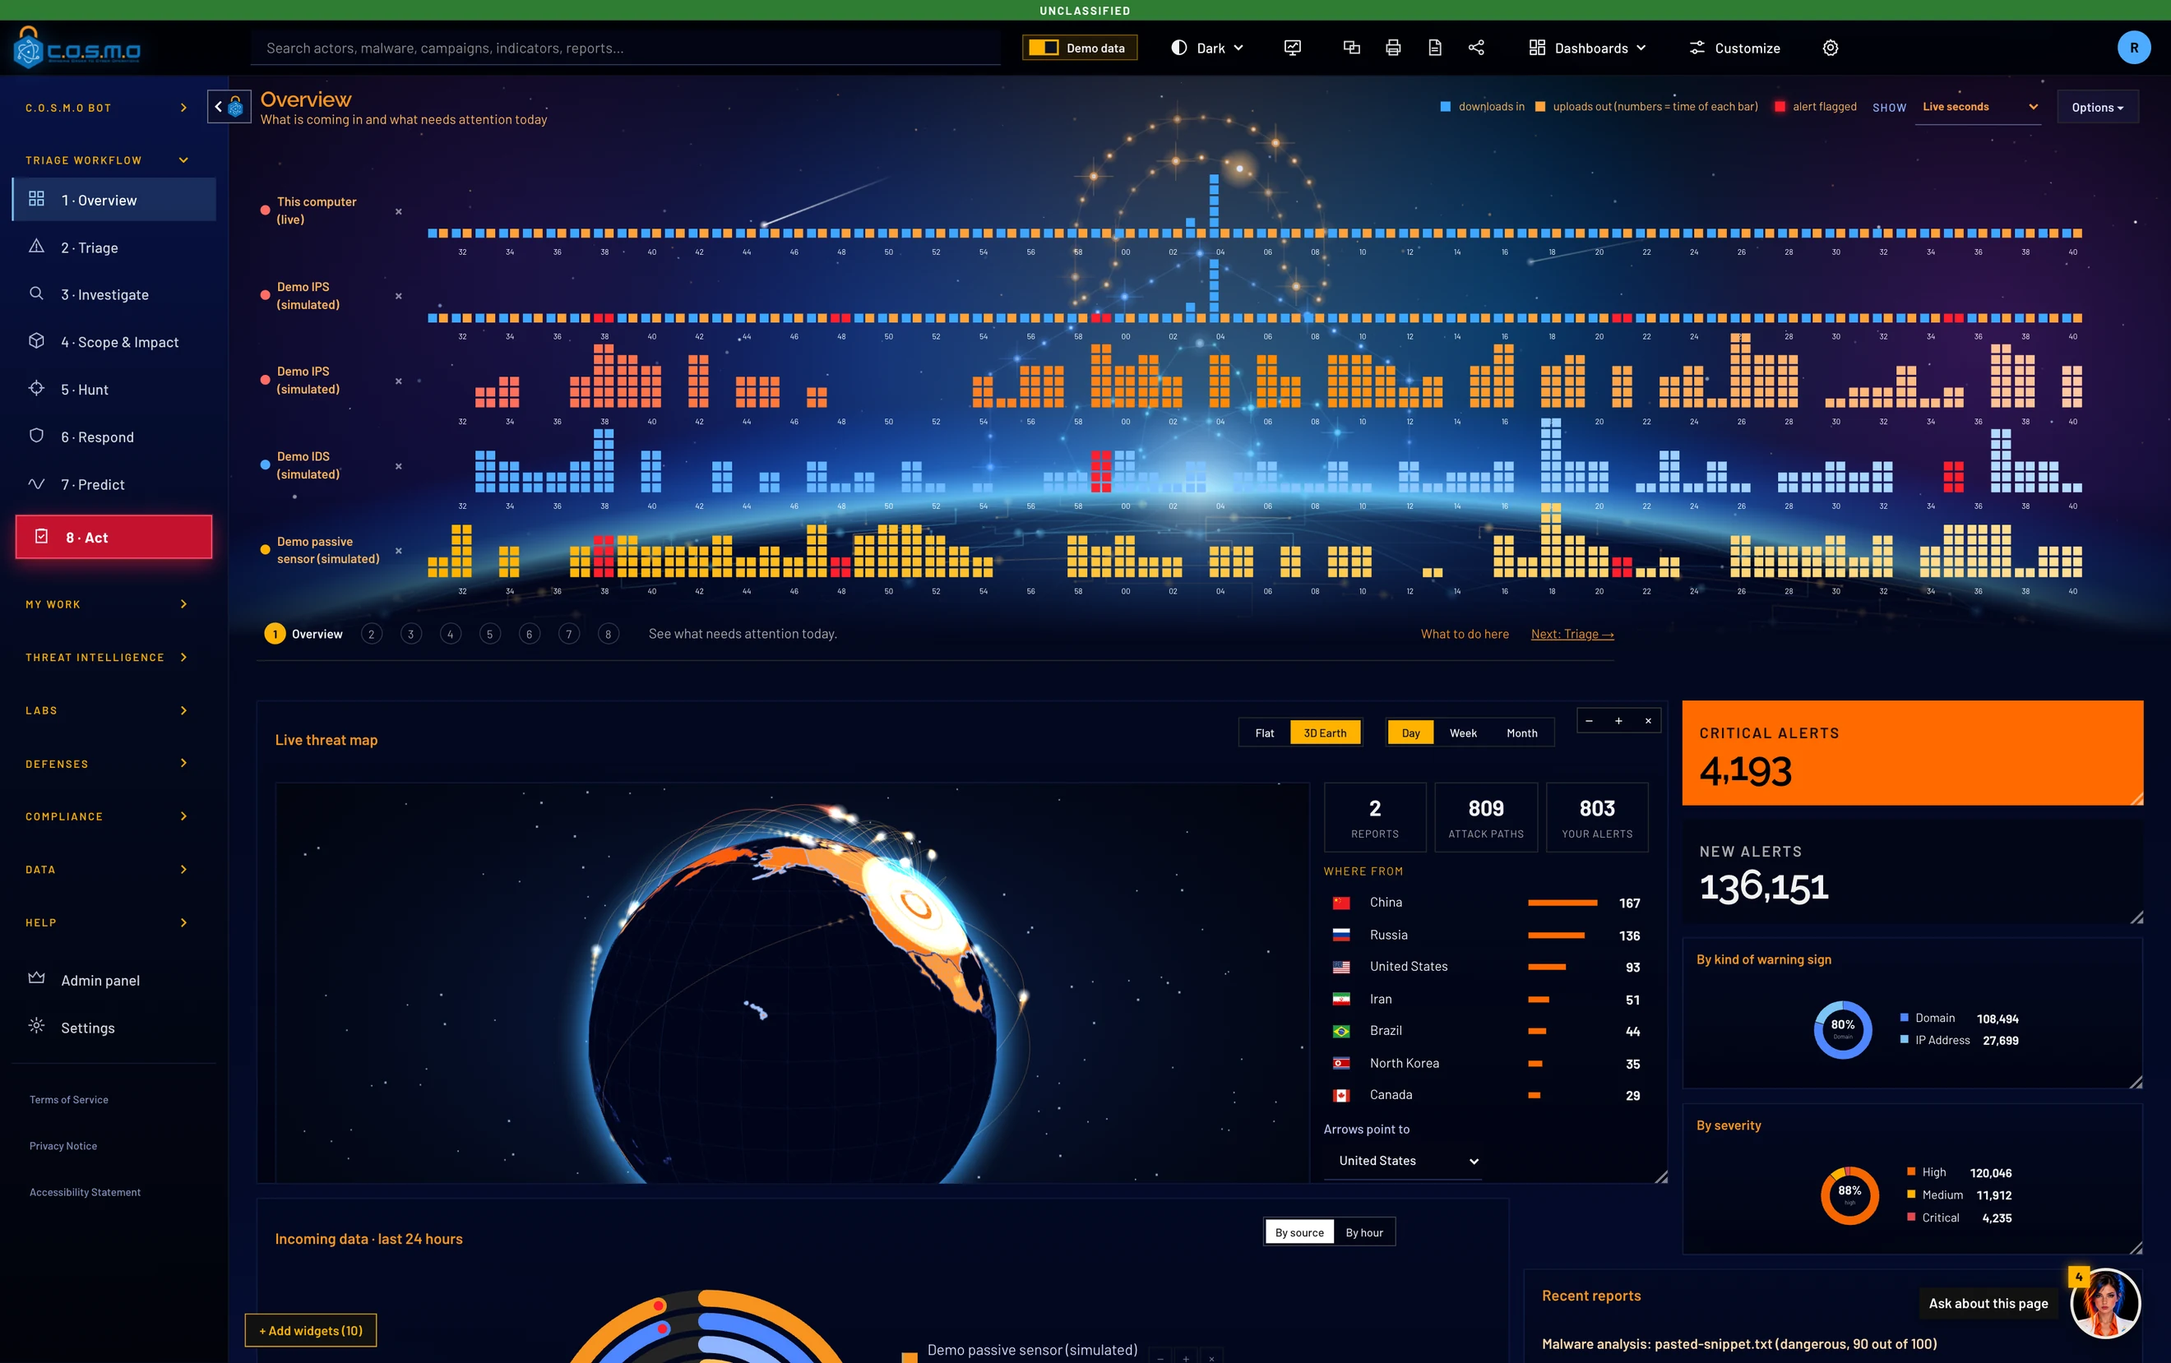
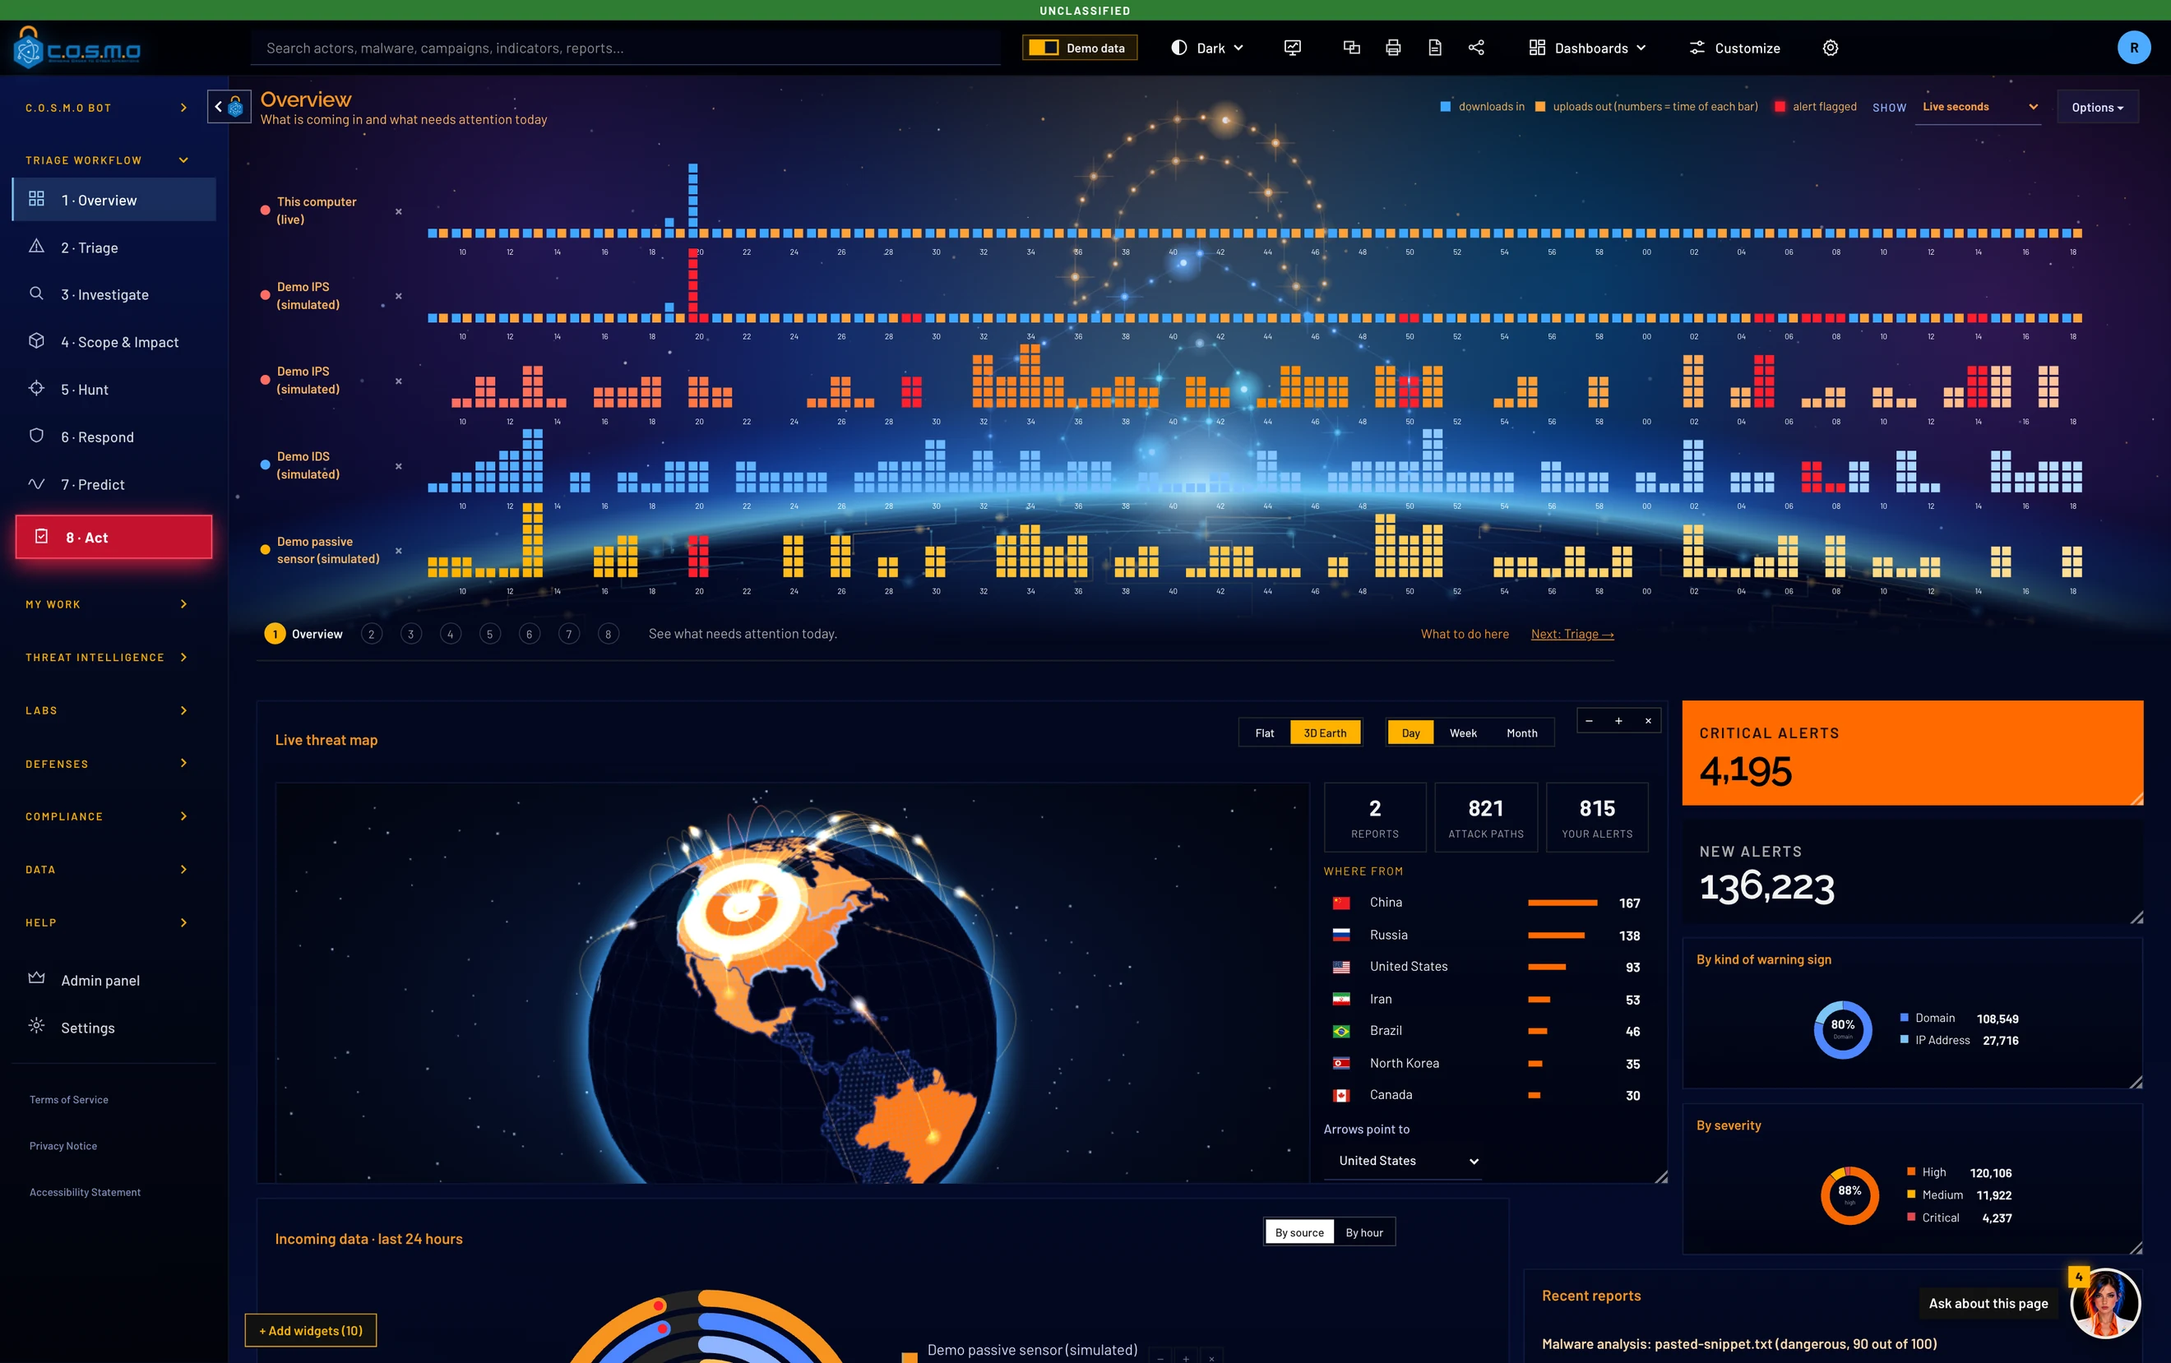
Overview screen pinned while you scroll: four statements swap around it, the spiral galaxy turns behind it, globe turned to the United States

diff --git a/index.html b/index.html
@@ -11,7 +11,7 @@
 <meta name="theme-color" content="#04071a">
 <link rel="icon" href="assets/img/favicon.svg" type="image/svg+xml">
 <link rel="icon" href="assets/img/favicon.png" type="image/png">
-<link rel="stylesheet" href="css/site.css?v=20261103q">
+<link rel="stylesheet" href="css/site.css?v=20261103t">
 <script>document.documentElement.classList.add('js')</script>
 </head>
 <body>
@@ -43,10 +43,6 @@
       <p class="lead">C.O.S.M.O triages, investigates, hunts, responds and predicts. One platform, with AI at every step and nothing leaving your network. Your analysts stay in control: nothing changes until a person approves.</p>
       <div class="actions"><a class="btn btn-primary" href="#contact">Request a demo <svg viewBox="0 0 24 24" aria-hidden="true"><use href="#i-arrow"/></svg></a><a class="btn btn-outline" href="#bot">Watch the bot work <svg viewBox="0 0 24 24" aria-hidden="true"><use href="#i-play"/></svg></a></div>
     </div>
-    <div class="hero-stage" data-reveal>
-      <div class="galaxy" aria-hidden="true"><img src="assets/img/galaxy.svg?v=20261103q" alt="" width="1200" height="1200"></div>
-      <figure class="hero-shot"><img src="assets/img/mock/cosmo-overview-live.webp?v=20261103q" width="2640" height="1657" alt="The C.O.S.M.O Overview: live traffic bars for every source arcing over a glowing 3D Earth, the live threat map with attack paths, and critical-alert counts down the side."></figure>
-    </div>
   </div>
   <div class="trust">
     <div class="wrap">
@@ -57,6 +53,21 @@
         <li><svg viewBox="0 0 24 24" aria-hidden="true"><use href="#i-unplug"/></svg>Works offline</li>
         <li><svg viewBox="0 0 24 24" aria-hidden="true"><use href="#i-cart"/></svg>Buy direct from Cypher</li>
       </ul>
+    </div>
+  </div>
+</section>
+
+<section class="spin" data-tab="home" id="overview" aria-label="The C.O.S.M.O Overview">
+  <div class="spin-track">
+    <div class="spin-stage">
+      <div class="galaxy" aria-hidden="true"><img src="assets/img/galaxy.svg?v=20261103t" alt="" width="1200" height="1200"></div>
+      <figure class="spin-screen"><img src="assets/img/mock/cosmo-overview-live.webp?v=20261103t" width="2640" height="1658" alt=""></figure>
+      <div class="spin-texts">
+        <article class="ostep on"><span class="mno">01</span><h3>Every source on one screen.</h3><p>Live traffic from your firewalls, sensors and servers, arcing over the Earth so you see what is coming in right now.</p></article>
+        <article class="ostep"><span class="mno">02</span><h3>See where it comes from.</h3><p>The 3D Earth draws every attack path from the country it started in to the machines it is aimed at, with the United States and your own network marked.</p></article>
+        <article class="ostep"><span class="mno">03</span><h3>The numbers that need you.</h3><p>Critical alerts, new alerts and the warning signs behind them, counted live and ranked so the urgent ones come first.</p></article>
+        <article class="ostep"><span class="mno">04</span><h3>Nothing changes until you approve.</h3><p>C.O.S.M.O drafts the decisions and the work orders. A person reads them and presses Approve.</p></article>
+      </div>
     </div>
   </div>
 </section>
@@ -101,7 +112,7 @@
     <div class="chatx">
       <figure class="chatx-shot botduo" data-reveal>
         <img class="bigava" src="assets/img/cosmo-bot-large.jpg" width="320" height="320" alt="C.O.S.M.O Bot" loading="lazy">
-        <img class="botwin" src="assets/img/views/bot-window.webp?v=20261103q" width="860" height="1592" alt="The C.O.S.M.O Bot window: 5 things that need a person, each with a button that takes you to the work, and a box to ask in plain language." loading="lazy">
+        <img class="botwin" src="assets/img/views/bot-window.webp?v=20261103t" width="860" height="1592" alt="The C.O.S.M.O Bot window: 5 things that need a person, each with a button that takes you to the work, and a box to ask in plain language." loading="lazy">
       </figure>
       <div class="chatx-copy" data-reveal>
         <ul class="cap-list tight">
@@ -123,7 +134,7 @@
     </div>
     <div class="chatbig" data-reveal>
       <figure class="chatbig-shot">
-        <img src="assets/img/views/bot-chat-large.webp?v=20261103q" width="1800" height="1212" alt="The full-size C.O.S.M.O Bot chat page: a large conversation area with a box at the bottom for questions, buttons to attach images and files, a switch for suggested next questions, and a choice of which AI answers." loading="lazy">
+        <img src="assets/img/views/bot-chat-large.webp?v=20261103t" width="1800" height="1212" alt="The full-size C.O.S.M.O Bot chat page: a large conversation area with a box at the bottom for questions, buttons to attach images and files, a switch for suggested next questions, and a choice of which AI answers." loading="lazy">
         <svg class="chatbig-marks" viewBox="0 0 1528 1028" aria-hidden="true">
           <g fill="none" stroke="#f7931e" stroke-width="5"><circle cx="415" cy="864" r="22"/><circle cx="449" cy="864" r="22"/><rect x="1315" y="31" width="195" height="44"/><rect x="1098" y="36" width="207" height="34"/></g>
           <g stroke="#f7931e" stroke-width="4"><path d="M405 886 L350 950"/><path d="M459 886 L520 950"/><path d="M1412 75 L1412 130"/><path d="M1200 70 L1200 130"/></g>
@@ -661,6 +672,6 @@
     </div>
   </div>
 </footer>
-<script src="js/site.js?v=20261103q" defer></script>
+<script src="js/site.js?v=20261103t" defer></script>
 </body>
 </html>

diff --git a/css/site.css b/css/site.css
@@ -1353,21 +1353,6 @@ html:not(.js) .caro-slide { position: relative; opacity: 1; visibility: visible;
 .mbk-frame { position: absolute; inset: 0; width: 100%; height: 100%; z-index: 2; pointer-events: none; }
 .feature-media .mbk { max-width: none; }
 
-/* Spiral galaxy behind the main screen at the top. It turns with the scroll, like the shooting stars, and back when you scroll up. */
-.hero-stage > .galaxy { position: absolute; inset: -34% -22%; z-index: 0; pointer-events: none; }
-.hero-stage > .hero-shot { position: relative; z-index: 1; }
-.galaxy img { position: absolute; left: 50%; top: 50%; width: min(1700px, 100%); min-width: 560px; max-width: none; height: auto; opacity: .9; transform: translate(-50%, -50%) rotate(var(--gx, 0deg)); will-change: transform; -webkit-mask-image: radial-gradient(circle, #000 50%, transparent 70%); mask-image: radial-gradient(circle, #000 50%, transparent 70%); }
-@media (max-width: 860px) { .hero-stage > .galaxy { inset: -20% -40%; } .galaxy img { min-width: 480px; opacity: .8; } }
-
-/* Tighter join between "what it is" and the Bot section: the two sections' big paddings added up to a huge empty band (Ray, 2026-11-03). */
-.section.intro { padding-bottom: clamp(20px, 2.5vw, 36px); }
-.section.intro + .section.dark { padding-top: clamp(28px, 3.5vw, 48px); }
-
-/* The hero screen is narrower than the stage so the galaxy behind it shows all round it. */
-.hero-stage > .hero-shot { max-width: min(860px, 84%); margin: 0 auto; }
-.hero-stage > .galaxy { inset: -40% -30%; }
-.galaxy img { opacity: 1; }
-@media (max-width: 860px) { .hero-stage > .hero-shot { max-width: 100%; } .hero-stage > .galaxy { inset: -25% -55%; } }
 
 
 /* Ask in plain language: a large avatar, the real bot window hovering at her bottom right, the larger chat page underneath with its buttons pointed out. */
@@ -1392,4 +1377,31 @@ html:not(.js) .caro-slide { position: relative; opacity: 1; visibility: visible;
   .botduo .bigava { width: 210px; height: 210px; }
   .botduo .botwin { left: 120px; top: 150px; width: 240px; }
   .chatbig { grid-template-columns: 1fr; }
+}
+
+
+/* The Overview screen is pinned while you scroll. Four statements swap around it and the spiral galaxy behind it turns with the scroll (and back when you scroll up). */
+.spin { position: relative; background: transparent; }
+.spin-track { position: relative; height: 420vh; }
+.spin-stage { position: sticky; top: 0; height: 100vh; display: grid; place-items: center; overflow: hidden; }
+.spin .galaxy { position: absolute; inset: 0; z-index: 0; pointer-events: none; }
+.spin .galaxy img { position: absolute; left: 50%; top: 50%; width: min(1900px, 150vw); max-width: none; height: auto; opacity: 1; transform: translate(-50%, -50%) rotate(var(--gx, 0deg)); will-change: transform; -webkit-mask-image: radial-gradient(circle, #000 50%, transparent 70%); mask-image: radial-gradient(circle, #000 50%, transparent 70%); }
+.spin-screen { position: relative; z-index: 1; width: min(55%, 1000px); margin: 0; }
+.spin-screen img { display: block; width: 100%; height: auto; background: #04071a; border: 1px solid var(--border-2); box-shadow: 0 40px 90px rgba(0, 0, 0, .6); }
+.spin-texts { position: absolute; inset: 0; z-index: 2; pointer-events: none; }
+.spin-texts .ostep { position: absolute; top: 50%; width: min(19%, 290px); opacity: 0; transform: translateY(-50%); will-change: transform, opacity; }
+.spin-texts .ostep:nth-child(odd) { left: 2%; text-align: left; }
+.spin-texts .ostep:nth-child(even) { right: 2%; text-align: right; }
+.spin-texts .mno { display: block; font: 700 .8rem/1 var(--font); letter-spacing: .26em; color: var(--orange); }
+.spin-texts h3 { font-size: clamp(1.3rem, .9rem + 1.3vw, 2rem); line-height: 1.12; margin: 12px 0 0; color: var(--ink); }
+.spin-texts p { margin: 12px 0 0; font-size: clamp(.92rem, .88rem + .22vw, 1.05rem); line-height: 1.55; color: var(--body); }
+html:not(.js) .spin-track { height: auto; } html:not(.js) .spin-stage { position: static; height: auto; display: block; }
+html:not(.js) .spin-texts { position: static; } html:not(.js) .spin-texts .ostep { position: static; opacity: 1; transform: none; width: auto; padding: 18px 24px; text-align: left; }
+@media (max-width: 860px) {
+  .spin-track { height: auto; }
+  .spin-stage { position: relative; height: auto; display: block; padding: 40px 16px 28px; overflow: hidden; }
+  .spin .galaxy img { width: 230vw; }
+  .spin-screen { width: 100%; }
+  .spin-texts { position: relative; inset: auto; margin-top: 24px; }
+  .spin-texts .ostep { position: static; opacity: 1 !important; transform: none !important; width: auto; text-align: left !important; padding: 20px 0; border-top: 1px solid var(--border); }
 }

diff --git a/js/site.js b/js/site.js
@@ -261,25 +261,27 @@
     render();
   });
 
-  // Spiral galaxy behind a section: a pure function of scroll position, so it turns back when you scroll up.
-  var galaxies = Array.prototype.slice.call(document.querySelectorAll('.galaxy'));
-  if (galaxies.length && !(window.matchMedia && window.matchMedia('(prefers-reduced-motion: reduce)').matches)) {
-    var gTick = false;
-    var spin = function () {
-      gTick = false;
-      var vh = window.innerHeight;
-      galaxies.forEach(function (g) {
-        var sec = g.closest('section') || g.parentElement, r = sec.getBoundingClientRect();
-        if (r.bottom < -200 || r.top > vh + 200) return;
-        var p = (vh - r.top) / (r.height + vh);
-        g.style.setProperty('--gx', (p * 220 - 60).toFixed(1) + 'deg');
-      });
+  // The pinned Overview: the screen stays, four statements swap around it, and the spiral galaxy turns with the scroll (back again when you scroll up).
+  Array.prototype.forEach.call(document.querySelectorAll('.spin'), function (spin) {
+    var track = spin.querySelector('.spin-track'), gal = spin.querySelector('.galaxy img');
+    var steps = Array.prototype.slice.call(spin.querySelectorAll('.ostep')), N = steps.length || 1;
+    var still = window.matchMedia && window.matchMedia('(prefers-reduced-motion: reduce)').matches;
+    var queued = false;
+    var render = function () {
+      queued = false;
+      var vh = window.innerHeight, r = track.getBoundingClientRect(), wide = window.innerWidth > 860, p;
+      if (wide) { var total = track.offsetHeight - vh; p = total > 0 ? Math.min(Math.max(-r.top / total, 0), 1) : 0; }
+      else { p = Math.min(Math.max((vh - r.top) / (r.height + vh), 0), 1); }
+      if (gal && !still) gal.style.setProperty('--gx', (p * 300 - 30).toFixed(1) + 'deg');
+      if (!wide) return;
+      var seg = p * N, idx = Math.min(Math.floor(seg), N - 1);
+      var t = (seg - idx - 0.55) / 0.45; t = t < 0 ? 0 : t > 1 ? 1 : t; t = t * t * (3 - 2 * t);
+      var f = Math.min(idx + t, N - 1);
+      steps.forEach(function (s, k) { var dd = k - f; s.style.transform = 'translateY(calc(-50% + ' + (dd * 64).toFixed(1) + 'px))'; s.style.opacity = Math.max(0, 1 - Math.abs(dd) * 1.3).toFixed(3); });
     };
-    var onScroll = function () { if (!gTick) { gTick = true; window.requestAnimationFrame(spin); } };
-    window.addEventListener('scroll', onScroll, { passive: true });
-    window.addEventListener('resize', onScroll);
-    spin();
-  }
+    var onScroll = function () { if (!queued) { queued = true; window.requestAnimationFrame(render); } };
+    window.addEventListener('scroll', onScroll, { passive: true }); window.addEventListener('resize', onScroll); render();
+  });
 
   // Views carousel: flip through interface screenshots.
   Array.prototype.forEach.call(document.querySelectorAll('[data-carousel]'), function (car) {

diff --git a/404.html b/404.html
@@ -12,7 +12,7 @@
 <meta name="theme-color" content="#04071a">
 <link rel="icon" href="/assets/img/favicon.svg" type="image/svg+xml">
 <link rel="icon" href="/assets/img/favicon.png" type="image/png">
-<link rel="stylesheet" href="/css/site.css?v=20261103q">
+<link rel="stylesheet" href="/css/site.css?v=20261103t">
 <script>document.documentElement.classList.add('js')</script>
 </head>
 <body>
@@ -93,6 +93,6 @@
     </div>
   </div>
 </footer>
-<script src="/js/site.js?v=20261103q" defer></script>
+<script src="/js/site.js?v=20261103t" defer></script>
 </body>
 </html>

diff --git a/contact.html b/contact.html
@@ -11,7 +11,7 @@
 <meta name="theme-color" content="#04071a">
 <link rel="icon" href="assets/img/favicon.svg" type="image/svg+xml">
 <link rel="icon" href="assets/img/favicon.png" type="image/png">
-<link rel="stylesheet" href="css/site.css?v=20261103q">
+<link rel="stylesheet" href="css/site.css?v=20261103t">
 <script>document.documentElement.classList.add('js')</script>
 </head>
 <body>
@@ -135,6 +135,6 @@
     </div>
   </div>
 </footer>
-<script src="js/site.js?v=20261103q" defer></script>
+<script src="js/site.js?v=20261103t" defer></script>
 </body>
 </html>

diff --git a/government.html b/government.html
@@ -11,7 +11,7 @@
 <meta name="theme-color" content="#04071a">
 <link rel="icon" href="assets/img/favicon.svg" type="image/svg+xml">
 <link rel="icon" href="assets/img/favicon.png" type="image/png">
-<link rel="stylesheet" href="css/site.css?v=20261103q">
+<link rel="stylesheet" href="css/site.css?v=20261103t">
 <script>document.documentElement.classList.add('js')</script>
 </head>
 <body>
@@ -179,6 +179,6 @@
     </div>
   </div>
 </footer>
-<script src="js/site.js?v=20261103q" defer></script>
+<script src="js/site.js?v=20261103t" defer></script>
 </body>
 </html>

diff --git a/security.html b/security.html
@@ -11,7 +11,7 @@
 <meta name="theme-color" content="#04071a">
 <link rel="icon" href="assets/img/favicon.svg" type="image/svg+xml">
 <link rel="icon" href="assets/img/favicon.png" type="image/png">
-<link rel="stylesheet" href="css/site.css?v=20261103q">
+<link rel="stylesheet" href="css/site.css?v=20261103t">
 <script>document.documentElement.classList.add('js')</script>
 </head>
 <body>
@@ -176,6 +176,6 @@
     </div>
   </div>
 </footer>
-<script src="js/site.js?v=20261103q" defer></script>
+<script src="js/site.js?v=20261103t" defer></script>
 </body>
 </html>

diff --git a/thanks.html b/thanks.html
@@ -12,7 +12,7 @@
 <meta name="theme-color" content="#04071a">
 <link rel="icon" href="assets/img/favicon.svg" type="image/svg+xml">
 <link rel="icon" href="assets/img/favicon.png" type="image/png">
-<link rel="stylesheet" href="css/site.css?v=20261103q">
+<link rel="stylesheet" href="css/site.css?v=20261103t">
 <script>document.documentElement.classList.add('js')</script>
 </head>
 <body>
@@ -93,6 +93,6 @@
     </div>
   </div>
 </footer>
-<script src="js/site.js?v=20261103q" defer></script>
+<script src="js/site.js?v=20261103t" defer></script>
 </body>
 </html>
